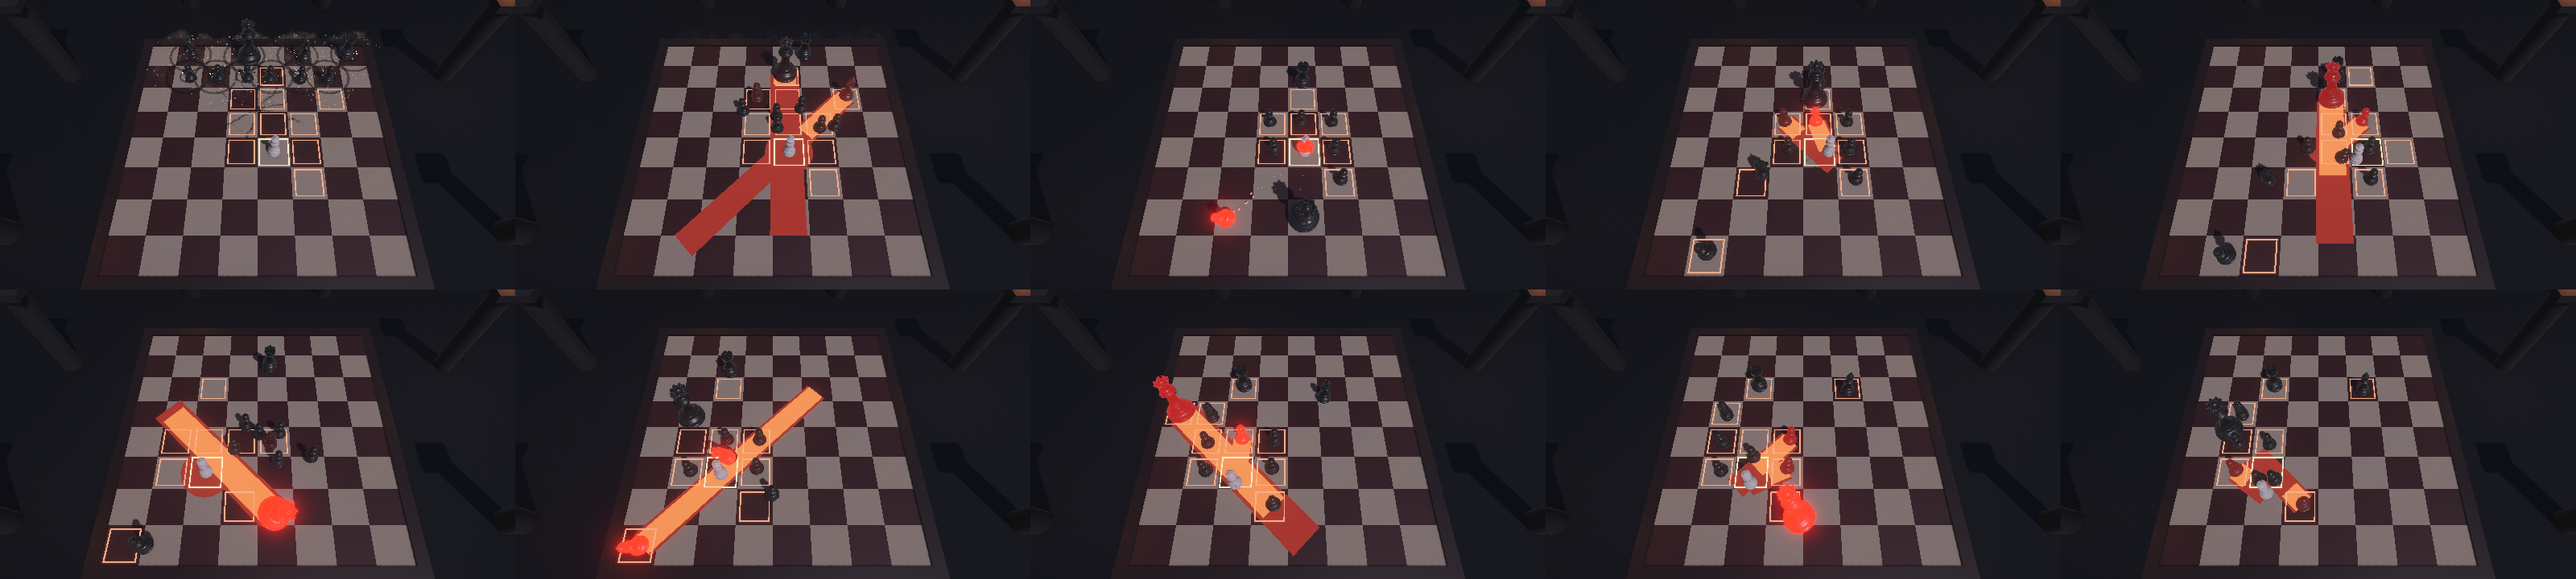
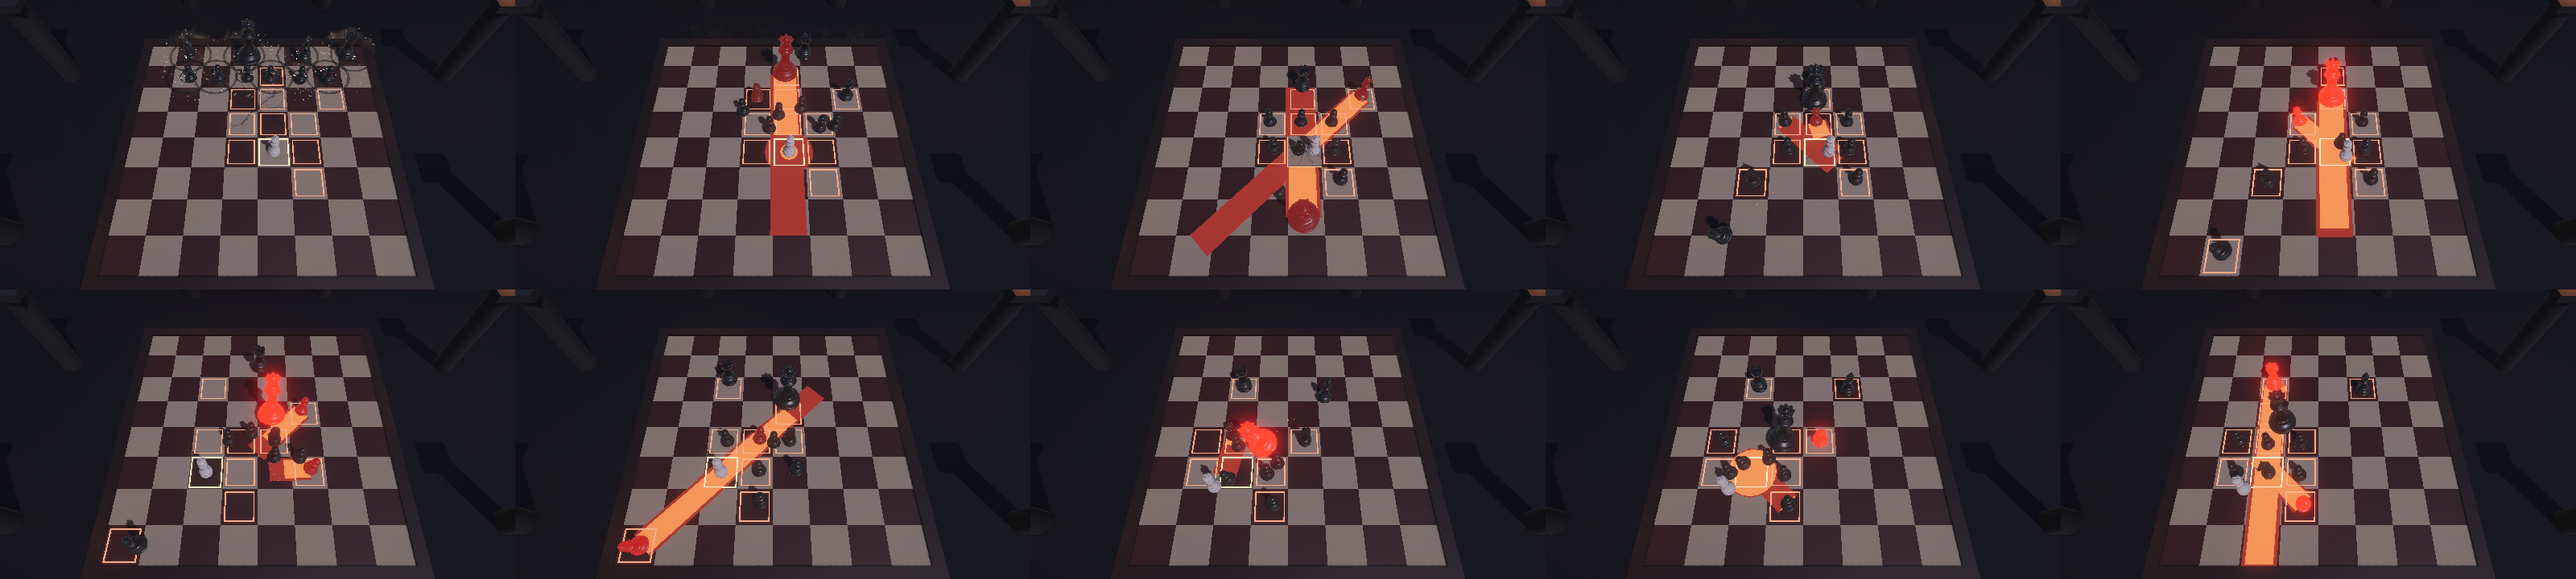
One hit, one set of effects
A heavy that breaks the guard and launches stacked the hit effect, the
vulnerable burst, the launch slash and two diamonds. Now the hit effect is
the only burst on a struck frame (launch slash / vulnerable flare only play
without one), the launch diamond appears once per piece per frame, and the
King's slam ring is an axis-aligned square so it never reads as a second
diamond.

diff --git a/Assets/Scripts/Combat/EnemyBase.cs b/Assets/Scripts/Combat/EnemyBase.cs
@@ -687,6 +687,7 @@ namespace KingLastPiece
         {
             if (IsDead || state == EState.Spawning) return false;
 
+            hitFrame = Time.frameCount;
             Health -= damage;
             LastHitTime = Time.time;
             Flash(new Color(1.6f, 1.5f, 1.3f), 0.09f);
@@ -810,9 +811,11 @@ namespace KingLastPiece
             Effects.Sparks(transform.position + Vector3.up * (airHeight + 1f), VulnerableColor, 10, 5f);
             if (!alreadyAirborne)
             {
-                SquareRingFx.Spawn(FlatPos, forced ? 1.2f : 0.8f, VulnerableColor, 0.3f, 45f);
-                Vfx.Slash(SlashFxKind.SlashBVertical, transform.position + Vector3.up * 0.8f, Quaternion.LookRotation(airKnock.sqrMagnitude > 0.01f ? airKnock : transform.forward),
-                    forced ? 1.1f : 0.75f, Vfx.Accent);
+                GroundDiamond(forced ? 1.2f : 0.8f, 0.3f);
+                // A blow already plays its own hit effect: the launch slash only marks launches without one.
+                if (!StruckThisFrame)
+                    Vfx.Slash(SlashFxKind.SlashBVertical, transform.position + Vector3.up * 0.8f, Quaternion.LookRotation(airKnock.sqrMagnitude > 0.01f ? airKnock : transform.forward),
+                        forced ? 1.1f : 0.75f, Vfx.Accent);
             }
         }
 
@@ -832,11 +835,23 @@ namespace KingLastPiece
             if (airHeight <= 0f && airVy < 0f)
             {
                 modelY = 0f;
-                SquareRingFx.Spawn(FlatPos, 1.4f, VulnerableColor, 0.35f, 45f);
+                GroundDiamond(1.4f, 0.35f);
                 Sfx.Play("STG_AirLand", transform.position);
                 Effects.Sparks(transform.position + Vector3.up * 0.2f, new Color(0.6f, 0.55f, 0.5f), 8, 3f);
                 Enter(EState.Getup);
             }
+        }
+
+        // One hit, one set of effects: a heavy that also breaks the guard and launches would otherwise stack them.
+        int hitFrame = -1, diamondFrame = -1;
+        bool StruckThisFrame => hitFrame == Time.frameCount;
+
+        /// <summary>Expanding hollow white diamond on the board under the piece (at most one per frame).</summary>
+        void GroundDiamond(float radius, float duration)
+        {
+            if (diamondFrame == Time.frameCount) return;
+            diamondFrame = Time.frameCount;
+            SquareRingFx.Spawn(FlatPos, radius, VulnerableColor, duration, 45f);
         }
 
         /// <summary>Kicks the hit reel: the top snaps back away from the King and twists (stronger in the air).</summary>
@@ -928,8 +943,9 @@ namespace KingLastPiece
             Sfx.Play("STG_Vulnerable", transform.position + Vector3.up * modelHeight);
             Sfx.Play("STG_Vulnerable_Loop", transform.position + Vector3.up * modelHeight);
             Flash(VulnerableColor * 2.2f, 0.18f);
-            SquareRingFx.Spawn(FlatPos, 1.6f, VulnerableColor, 0.35f, 45f);
-            Vfx.Burst(SlashFxKind.SlashC, transform.position + Vector3.up * (modelHeight + 0.2f), Quaternion.identity, 0.9f, VulnerableColor, "flare", "spark");
+            GroundDiamond(1.6f, 0.35f);
+            if (!StruckThisFrame)
+                Vfx.Burst(SlashFxKind.SlashC, transform.position + Vector3.up * (modelHeight + 0.2f), Quaternion.identity, 0.9f, VulnerableColor, "flare", "spark");
             Effects.Sparks(transform.position + Vector3.up * 2f, VulnerableColor, 16, 4f);
             Game.Rig.Shake(0.15f);
         }

diff --git a/Assets/Scripts/Core/Vfx.cs b/Assets/Scripts/Core/Vfx.cs
@@ -295,7 +295,7 @@ namespace KingLastPiece
                     break;
                 case VfxStyle.BoardRipple:
                     BoardFx.Ripple(center, radius, strength);
-                    SquareRingFx.Spawn(center, radius, accent, 0.5f);
+                    SquareRingFx.Spawn(center, radius, accent, 0.5f, 0f);   // square (the diamond marks a launched piece)
                     // Deep projector: the squares lift up to ~0.4 while rippling and must keep showing the cracks.
                     CrackDecalFx.Spawn(center, Mathf.Min(6f, radius * 2f), strength * 0.8f, 1.1f);
                     Confetti(center + Vector3.up * 0.1f, Vector3.zero, Mathf.RoundToInt(10 * strength), 4f * strength);
